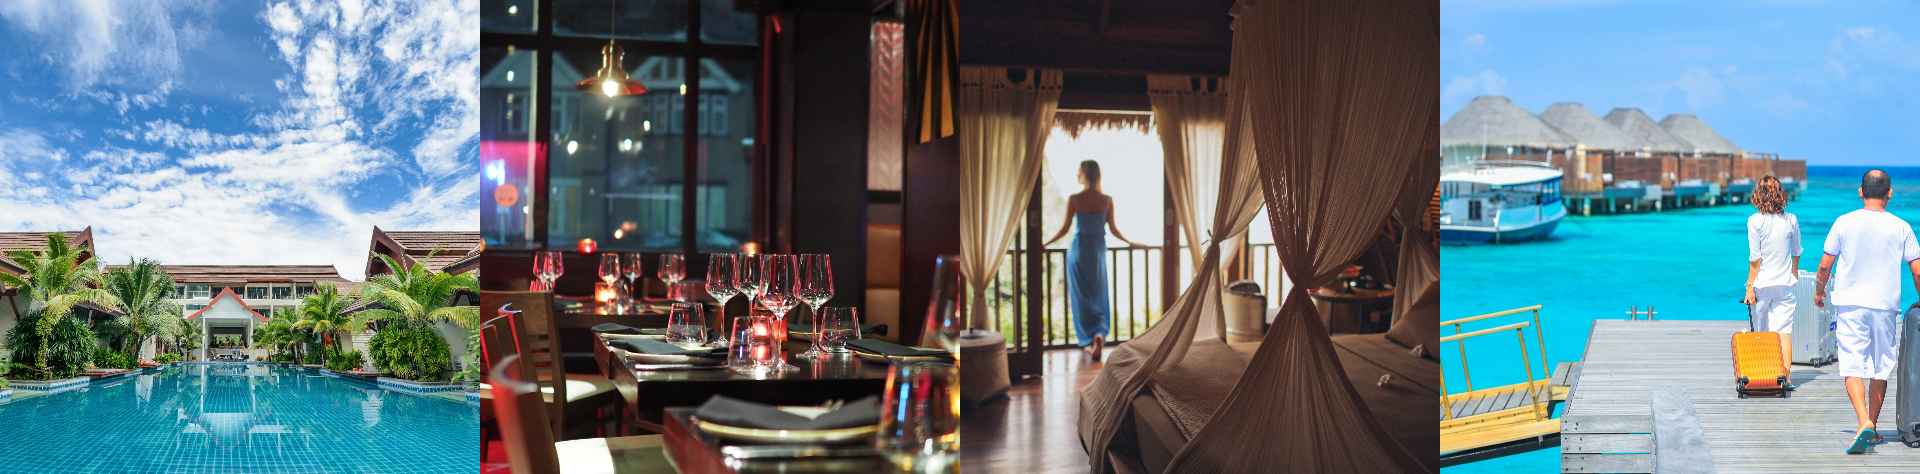
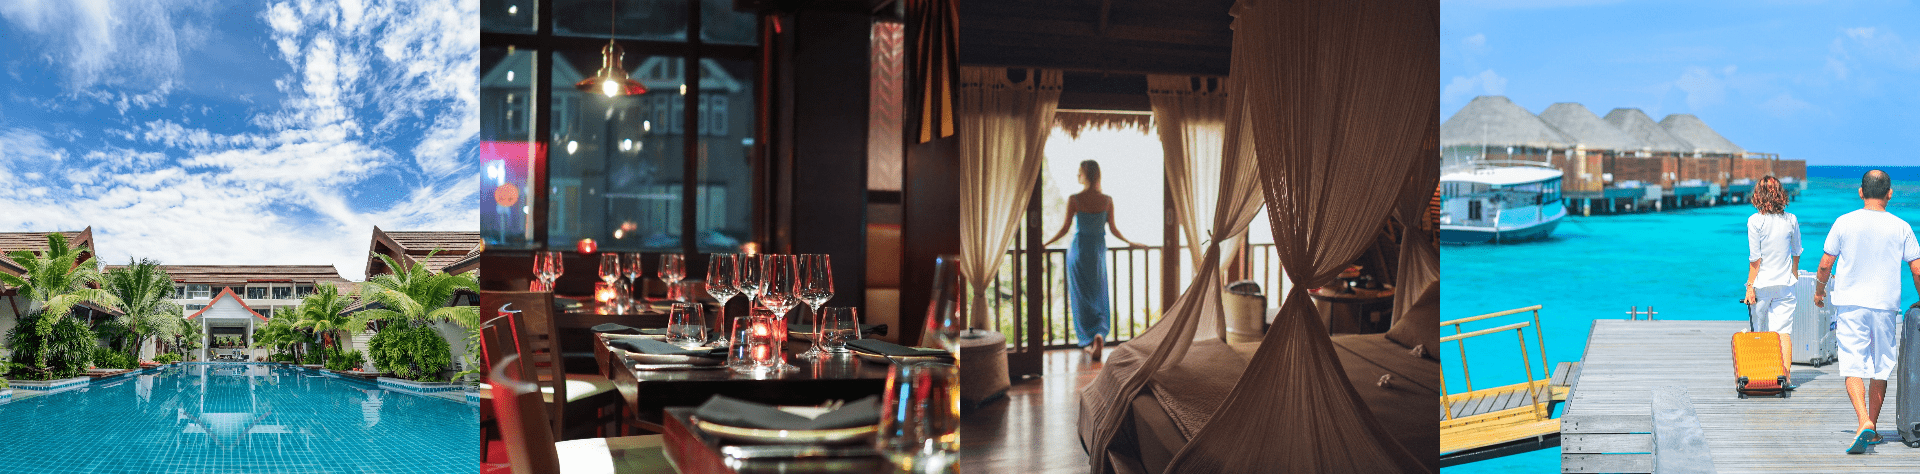
Image compression + Modal CurePay

diff --git a/css/styles.css b/css/styles.css
@@ -287,6 +287,60 @@ p {
   margin-right: auto;
   display: block;
 }
+/* Modal Section */
+.modal-custom {
+  position: fixed;
+  top: 50%;
+  left: 50%;
+  transform: translate(-50%, -50%) scale(0);
+  transition: 200ms ease-in-out;
+  border: 1px solid var(--color-green-decoration);
+  border-radius: 10px;
+  -webkit-border-radius: 10px;
+  -moz-border-radius: 10px;
+  -ms-border-radius: 10px;
+  -o-border-radius: 10px;
+  z-index: 10;
+  background-color: white;
+  max-width: 80%;
+  width: 1000px;
+  height: 600px;
+  min-height: 50%;
+  -webkit-transition: 200ms ease-in-out;
+  -moz-transition: 200ms ease-in-out;
+  -ms-transition: 200ms ease-in-out;
+  -o-transition: 200ms ease-in-out;
+  -webkit-transform: translate(-50%, -50%) scale(0);
+  -moz-transform: translate(-50%, -50%) scale(0);
+  -ms-transform: translate(-50%, -50%) scale(0);
+  -o-transform: translate(-50%, -50%) scale(0);
+}
+.modal-custom.active {
+  transform: translate(-50%, -50%) scale(1);
+  -webkit-transform: translate(-50%, -50%) scale(1);
+  -moz-transform: translate(-50%, -50%) scale(1);
+  -ms-transform: translate(-50%, -50%) scale(1);
+  -o-transform: translate(-50%, -50%) scale(1);
+}
+#overlay-black {
+  position: fixed;
+  opacity: 0;
+  transition: 200ms ease-in-out;
+  top: 0;
+  left: 0;
+  right: 0;
+  bottom: 0;
+  background-color: rgba(0, 0, 0, 0.6);
+  pointer-events: none;
+  -webkit-transition: 200ms ease-in-out;
+  -moz-transition: 200ms ease-in-out;
+  -ms-transition: 200ms ease-in-out;
+  -o-transition: 200ms ease-in-out;
+}
+#overlay-black.active {
+  opacity: 1;
+  pointer-events: all;
+}
 /* placeholder text section */
 .placeholder-text-section {
   background-color: var(--color-green-background);

diff --git a/index.html b/index.html
@@ -71,6 +71,15 @@
                         Live Chart
                     </button>
                 </a>
+                <button data-modal-target="#modal-custom">
+                    Buy Now on CurePay
+                </button>
+            </div>
+            <div class="modal-custom" id="modal-custom">
+                <iframe src="https://www.curepayapp.com/widget?clientID=3fdffc84-dede-4c29-8e81-94caaad0aade"
+                    width="400" height="1000" style="width:100%;" frameBorder="0" scrolling="no"></iframe>
+            </div>
+            <div id="overlay-black">
             </div>
             <h1>Discover the world in a new way</h1>
         </div>
@@ -191,7 +200,8 @@
                     </h2>
                     <p>
                         We are a team of young entrepreneurs and investors located in various parts of the world. Here
-                        at Boxa our goal is to introduce decentralized finance into peoples lives and create an ecosystem
+                        at Boxa our goal is to introduce decentralized finance into peoples lives and create an
+                        ecosystem
                         and a world without borders. Boxa is the center of our project, designed as an utility token
                         while creating multiple use cases that grant everyone access to a multitude of perks and
                         benefits.
@@ -294,6 +304,7 @@
     <script src="https://ajax.googleapis.com/ajax/libs/jquery/3.6.0/jquery.min.js"></script>
     <script src="/js/header_footer_load.js"></script>
     <script src="/js/change_color_button_hover.js"></script>
+    <script src="/js/show_popup.js"></script>
 
 </body>
 

diff --git a/js/show_popup.js b/js/show_popup.js
@@ -1,0 +1,25 @@
+const openModalButtons = document.querySelectorAll("[data-modal-target]");
+const overlay = document.querySelector("#overlay-black");
+openModalButtons.forEach((button) => {
+  button.addEventListener("click", () => {
+    const modal = document.querySelector(button.dataset.modalTarget);
+    openModal(modal);
+  });
+});
+
+function openModal(modal) {
+  if (modal == null) return;
+  modal.classList.add("active");
+  overlay.classList.add("active");
+}
+function closeModal(modal) {
+  if (modal == null) return;
+  modal.classList.remove("active");
+  overlay.classList.remove("active");
+}
+overlay.addEventListener("click", () => {
+  const modals = document.querySelectorAll(".modal-custom.active");
+  modals.forEach((modal) => {
+    closeModal(modal);
+  });
+});
